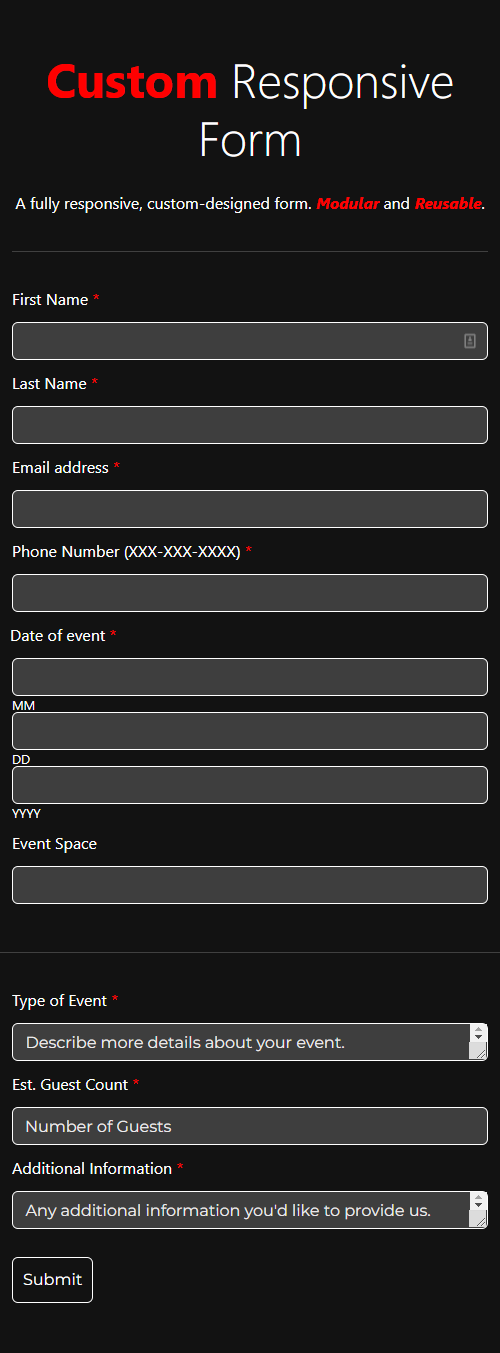
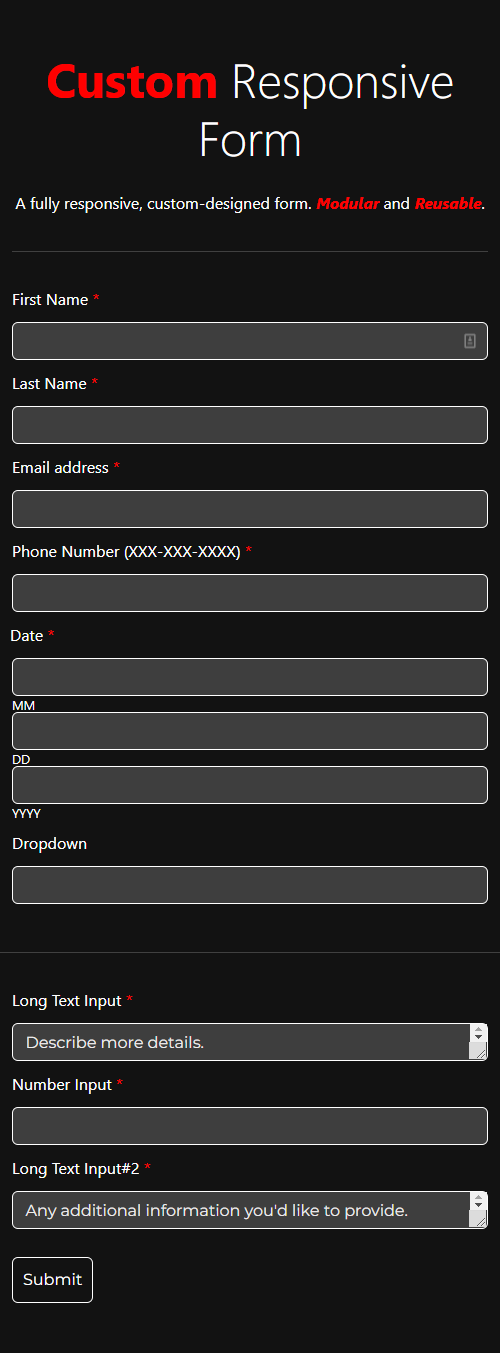
A fully responsive, custom-designed form.

diff --git a/Custom Form/index.html b/Custom Form/index.html
@@ -77,19 +77,19 @@
                             <div class="col-md-8">
                                 <label for="phone">Long Text Input <span
                                     id="formRequiredMark">*</span></label>
-                                <textarea type="text" class="form-control formLong" placeholder="Describe more details about your event." required></textarea>
+                                <textarea type="text" class="form-control formLong" placeholder="Describe more details." required></textarea>
                             </div>
                             <div class="col-md-4">
                                 <label for="phone">Number Input <span
                                     id="formRequiredMark">*</span></label>
-                                <input type="number" min="1" max="3000" class="form-control" placeholder="Number of Guests" required>
+                                <input type="number" min="1" max="3000" class="form-control" placeholder="" required>
                             </div>
                         </div>
                     </div>
                     <div class="col-12">
                         <label for="phone">Long Text Input#2 <span
                             id="formRequiredMark">*</span></label>
-                        <textarea type="text" class="form-control formLong" placeholder="Any additional information you'd like to provide us." required></textarea>
+                        <textarea type="text" class="form-control formLong" placeholder="Any additional information you'd like to provide." required></textarea>
                     </div>
                 </div>
                 <div class="col-12 m-0 p-0 b-0 pt-2">

diff --git a/Custom Form/README.md b/Custom Form/README.md
@@ -2,7 +2,7 @@ A fully responsive, custom-designed form. Modular and Reusable. Includes validat
 
 ## Desktop Version:
 <p align="center">
-  <img src="images/desktop.jpg">
+  <img src="images/desktop.png">
 </p>
 
 ## Mobile Version:
